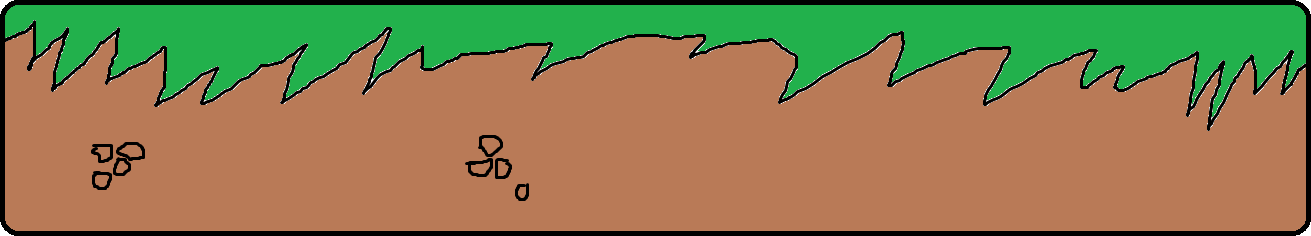
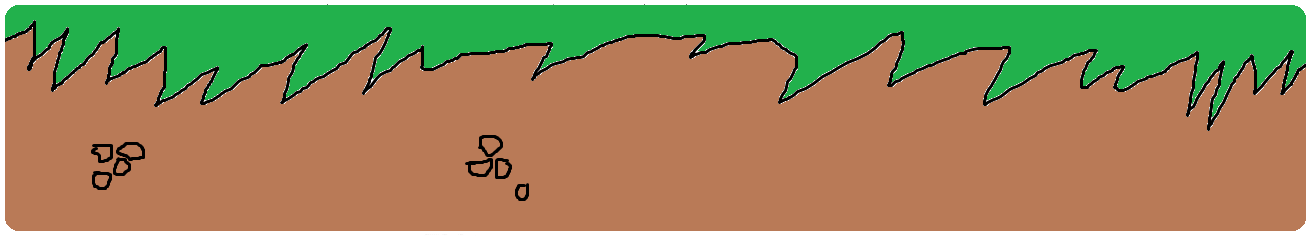
Adding backgrounds to stage

Changed region(s): [[0.0, 0.0, 1.0, 1.0]]

diff --git a/prototipo/GameLogic/Stage/Stage.py b/prototipo/GameLogic/Stage/Stage.py
@@ -48,6 +48,8 @@ class Stage:
 
         self.__maps = [Map("prototipo\Images\olympus.png", self.__platforms[self.__index])]
 
+        self.__backgrounds = [pygame.transform.scale(pygame.image.load("prototipo/Images/background_stage.jpg"), (800, 600))]
+
         self.collision = Collision
 
     @property
@@ -105,7 +107,11 @@ class Stage:
     @stage_completed.setter
     def stage_completed(self, stage_completed):
         self.__stage_completed = stage_completed
-    
+
+    @property
+    def backgrounds(self):
+        return self.__backgrounds
+
     def reset_stage(self):
         self.stage_completed = False
     
@@ -165,6 +171,7 @@ class Stage:
         boss = self.bosses[index]
         #weapon = self.weapons[index]
         #minion = self.minion[index]
+        background = self.backgrounds[index]
         platforms = self.platforms
 
         clock = 0
@@ -209,6 +216,7 @@ class Stage:
 
             #Checks if player is above a platform
             #If so he can jump
+            #Was not able to put this in a loop due to bad performance
             if (self.collision.check(platforms[0], player) or self.collision.check(platforms[1], player)):
                 canJump = True
             else:
@@ -221,7 +229,7 @@ class Stage:
                 else:
                     player.fall(platforms[0].y_position, platforms[0].height, True)
 
-            self.window.display.fill((0, 0, 0))
+            self.window.display.blit(background, (0, 0))
 
             #Player and Boss health bars
             boss.status([680, 20])

diff --git a/prototipo/GameLogic/Stage/Platform.py b/prototipo/GameLogic/Stage/Platform.py
@@ -15,10 +15,6 @@ class Platform:
     def x_position(self):
         return self.__x_position
 
-    # @x_position.setter
-    # def x_position(self, x_position):
-    #     self.__x_position = x_position
-
     @property
     def hitbox_x(self):
         return self.__hitbox_x
@@ -79,4 +75,4 @@ class Platform:
         self.window.draw_scaled_image(self.__sprite, 
                     self.__width, self.__height, 
                     self.__x_position, self.__y_position)
-    # #Colocar plataforma apenas nas posições y = 150, 300 ou 450, devido ao jump = 150px
+    #Colocar plataforma apenas nas posições y = 150, 300 ou 450, devido ao jump = 150px

diff --git a/prototipo/Menu/MainMenu.py b/prototipo/Menu/MainMenu.py
@@ -31,18 +31,6 @@ class MainMenu:
     @run.setter
     def run(self, run):
         self.__run = run
-    
-    # def open_play(self):
-    #     #play = Play()
-    #     pass
-
-    # def open_help(self):
-    #     #help = Help()
-    #     pass
-
-    # def open_settings(self):
-    #     #settings = Settings()
-    #     pass
 
     def quit(self):
         pygame.quit()
